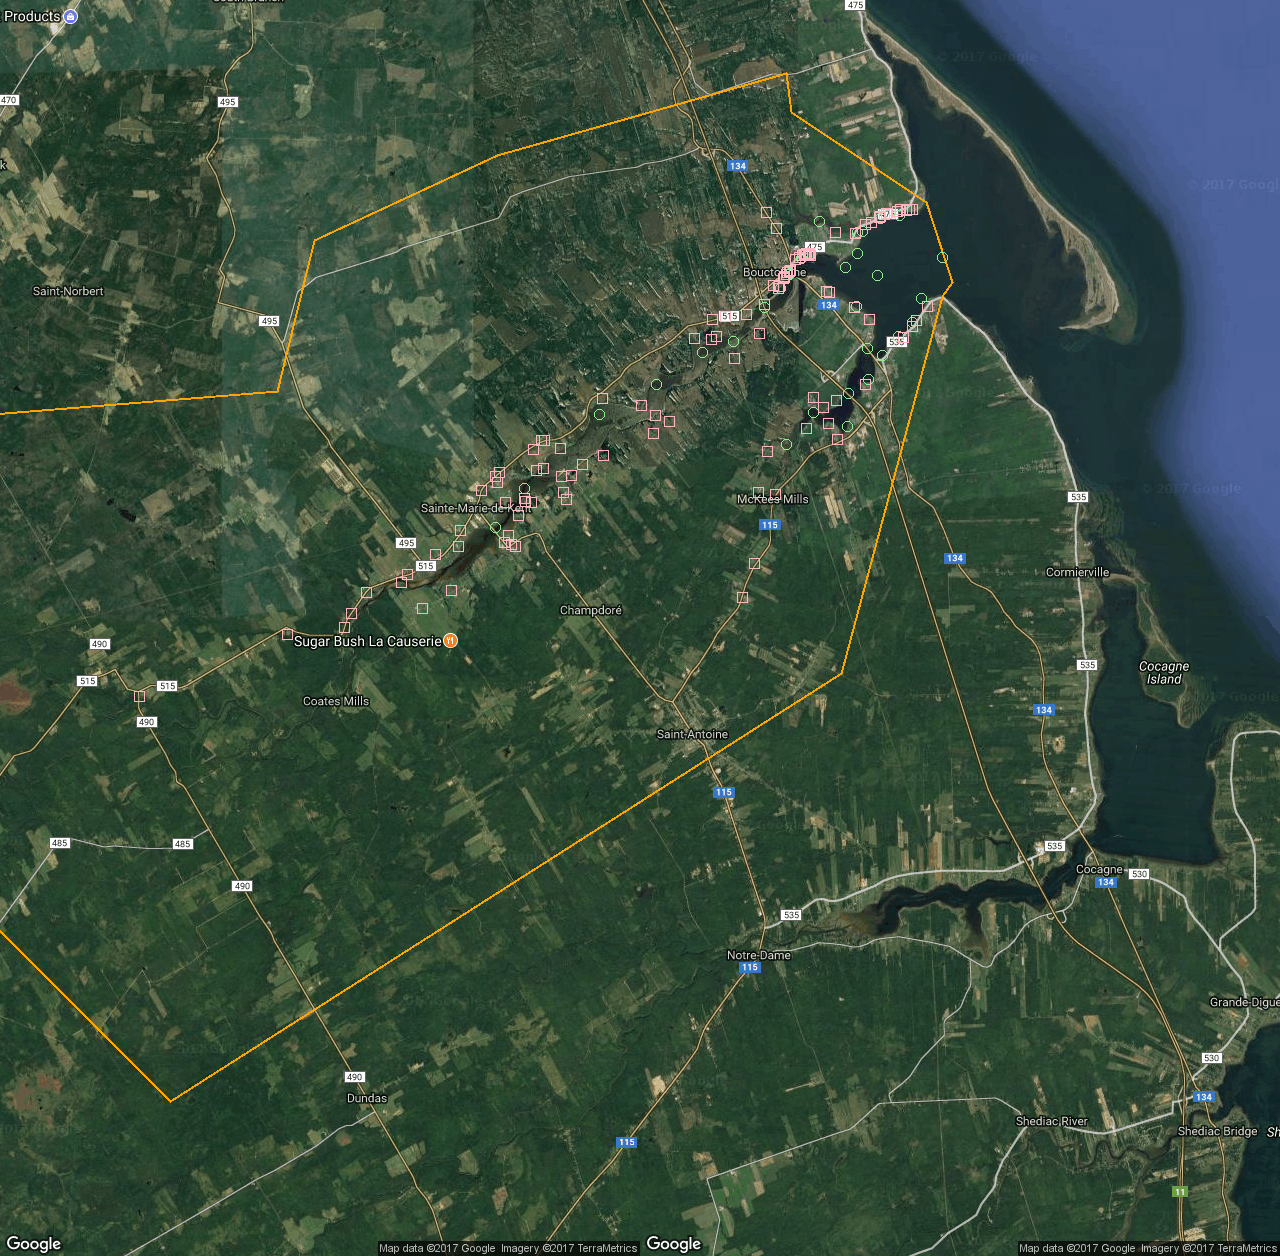
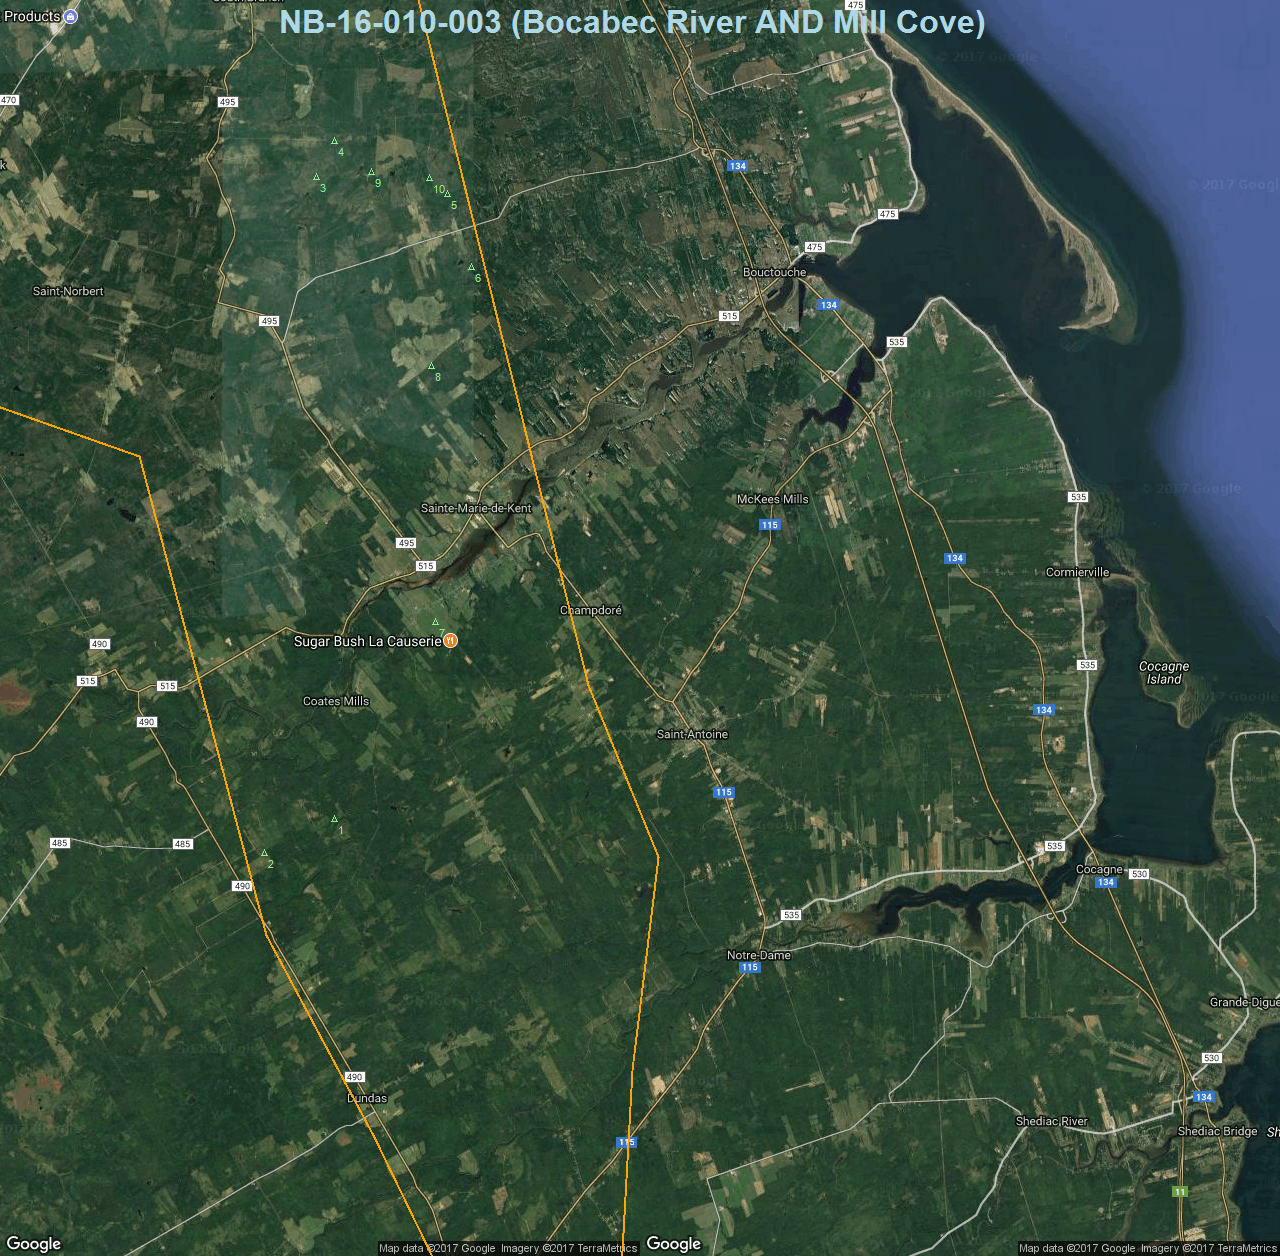
Init

diff --git a/GoogleMapPNG/GoogleMapPNG.cs b/GoogleMapPNG/GoogleMapPNG.cs
@@ -468,20 +468,20 @@ namespace GoogleMapPNG
                     }
                 }
 
-                if (!GetGoogleImages())
-                {
-                    return;
-                }
+                //if (!GetGoogleImages())
+                //{
+                //    return;
+                //}
 
-                if (!CombineAllImageIntoOne())
-                {
-                    return;
-                }
+                //if (!CombineAllImageIntoOne())
+                //{
+                //    return;
+                //}
 
-                if (!DeleteTempGoogleImageFiles())
-                {
-                    return;
-                }
+                //if (!DeleteTempGoogleImageFiles())
+                //{
+                //    return;
+                //}
 
                 using (Bitmap targetAll = new Bitmap(DirName + FileNameFull))
                 {
@@ -501,21 +501,41 @@ namespace GoogleMapPNG
 
                         g.DrawPolygon(new Pen(Color.Orange, 2.0f), polygonPointList.ToArray());
 
-                        foreach (MapInfoPoint mapInfoPoint in mapInfoPointMWQMSiteList)
-                        {
-                            double LngX = ((mapInfoPoint.Lng - NewMapCoordinates.SouthWest.Longitude) / TotalWidthLng) * GoogleImageWidth * 2.0D;
-                            double LatY = ((GoogleImageHeight * 2) - GoogleLogoHeight) - ((TotalHeightLat - (NewMapCoordinates.NorthEast.Latitude - mapInfoPoint.Lat)) / TotalHeightLat) * ((GoogleImageHeight * 2) - GoogleLogoHeight);
+                        //foreach (MapInfoPoint mapInfoPoint in mapInfoPointMWQMSiteList)
+                        //{
+                        //    double LngX = ((mapInfoPoint.Lng - NewMapCoordinates.SouthWest.Longitude) / TotalWidthLng) * GoogleImageWidth * 2.0D;
+                        //    double LatY = ((GoogleImageHeight * 2) - GoogleLogoHeight) - ((TotalHeightLat - (NewMapCoordinates.NorthEast.Latitude - mapInfoPoint.Lat)) / TotalHeightLat) * ((GoogleImageHeight * 2) - GoogleLogoHeight);
 
-                            g.DrawEllipse(new Pen(Color.LightGreen, 1.0f), (int)LngX - 5, (int)LatY - 5, 10, 10);
-                        }
+                        //    g.DrawEllipse(new Pen(Color.LightGreen, 1.0f), (int)LngX - 5, (int)LatY - 5, 10, 10);
+                        //}
 
+                        Font font = new Font("Arial", 8, FontStyle.Regular);
+                        Brush brush = new SolidBrush(Color.LightGreen);
+
+                        int count = 0;
                         foreach (MapInfoPoint mapInfoPoint in mapInfoPointPolSourceSiteList)
                         {
+                            count += 1;
                             double LngX = ((mapInfoPoint.Lng - NewMapCoordinates.SouthWest.Longitude) / TotalWidthLng) * GoogleImageWidth * 2.0D;
                             double LatY = ((GoogleImageHeight * 2) - GoogleLogoHeight) - ((TotalHeightLat - (NewMapCoordinates.NorthEast.Latitude - mapInfoPoint.Lat)) / TotalHeightLat) * ((GoogleImageHeight * 2) - GoogleLogoHeight);
 
-                            g.DrawRectangle(new Pen(Color.LightPink, 1.0f), (int)LngX - 5, (int)LatY - 5, 10, 10);
+                            g.DrawPolygon(new Pen(Color.LightGreen, 1.0f), new List<Point>()
+                            {
+                                new Point() { X = (int)LngX - 3, Y = (int)LatY + 3 },
+                                new Point() { X = (int)LngX + 3, Y = (int)LatY + 3 },
+                                new Point() { X = (int)LngX, Y = (int)LatY - 3 },
+                                new Point() { X = (int)LngX - 3, Y = (int)LatY + 3 },
+                            }.ToArray());
+                            //SizeF sizeF = g.MeasureString(tvItemLanguageSubsector.TVText, font);
+                            g.DrawString(count.ToString(), font, brush, new Point((int)(LngX + 2), (int)(LatY + 5)));
+                            //g.DrawRectangle(new Pen(Color.LightPink, 1.0f), (int)LngX - 5, (int)LatY - 5, 10, 10);
                         }
+
+                        font = new Font("Arial", 24, FontStyle.Bold);
+                        brush = new SolidBrush(Color.LightBlue);
+
+                        SizeF sizeF = g.MeasureString(tvItemLanguageSubsector.TVText, font);
+                        g.DrawString(tvItemLanguageSubsector.TVText, font, brush, new Point(GoogleImageWidth - (int)(sizeF.Width/2), 3));
                     }
 
                     targetAll.Save(DirName + FileNameFull.Replace(".png", "Annotated.png"), ImageFormat.Png);
